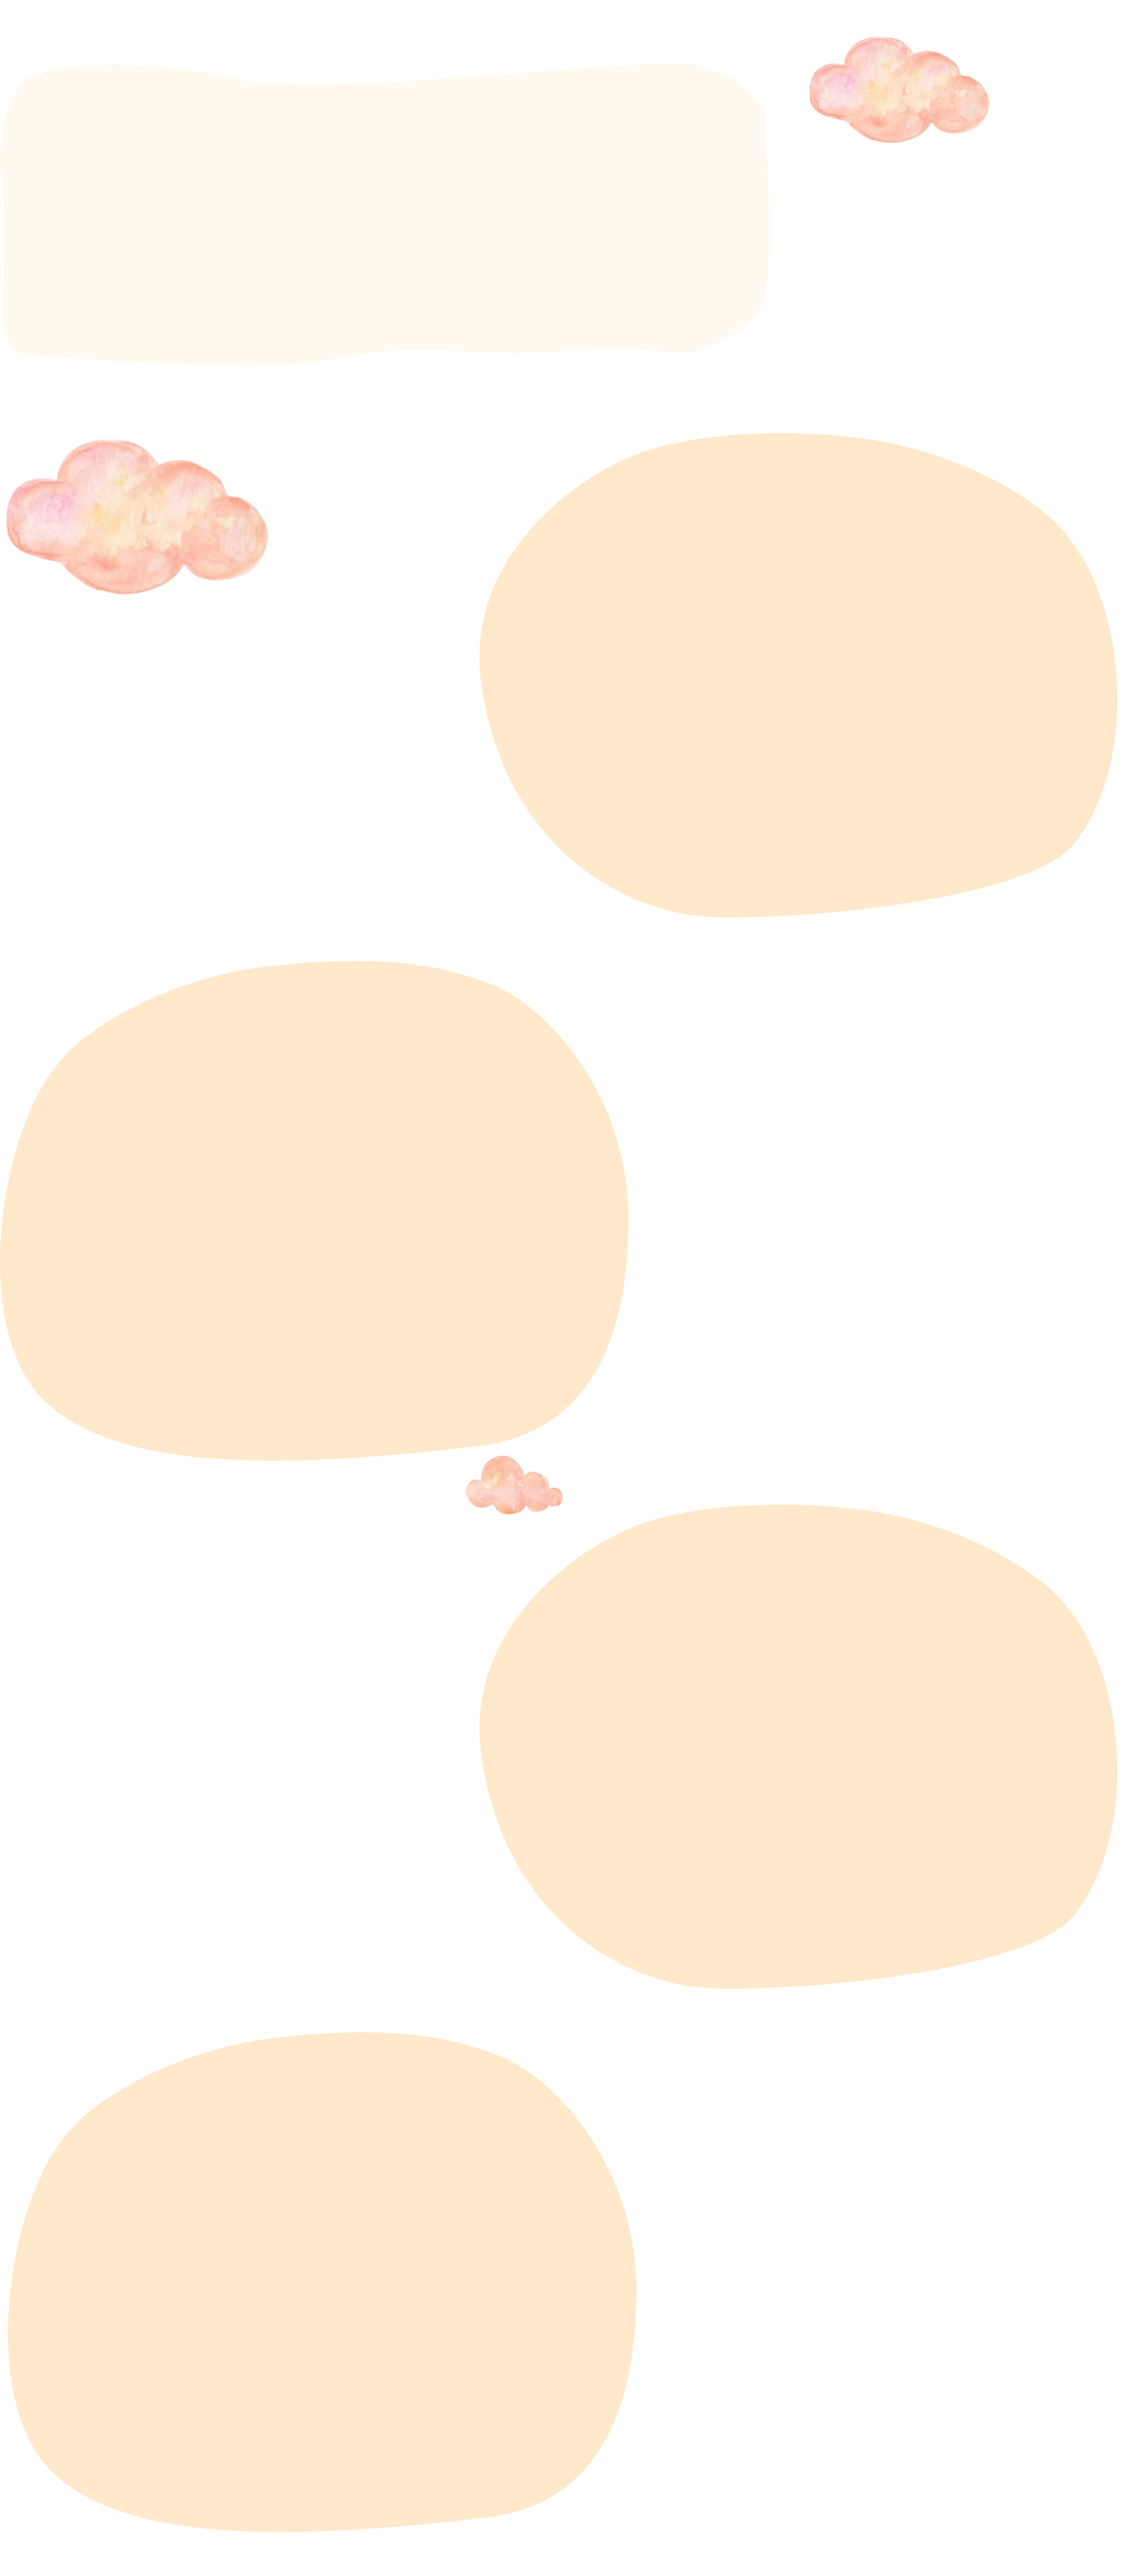
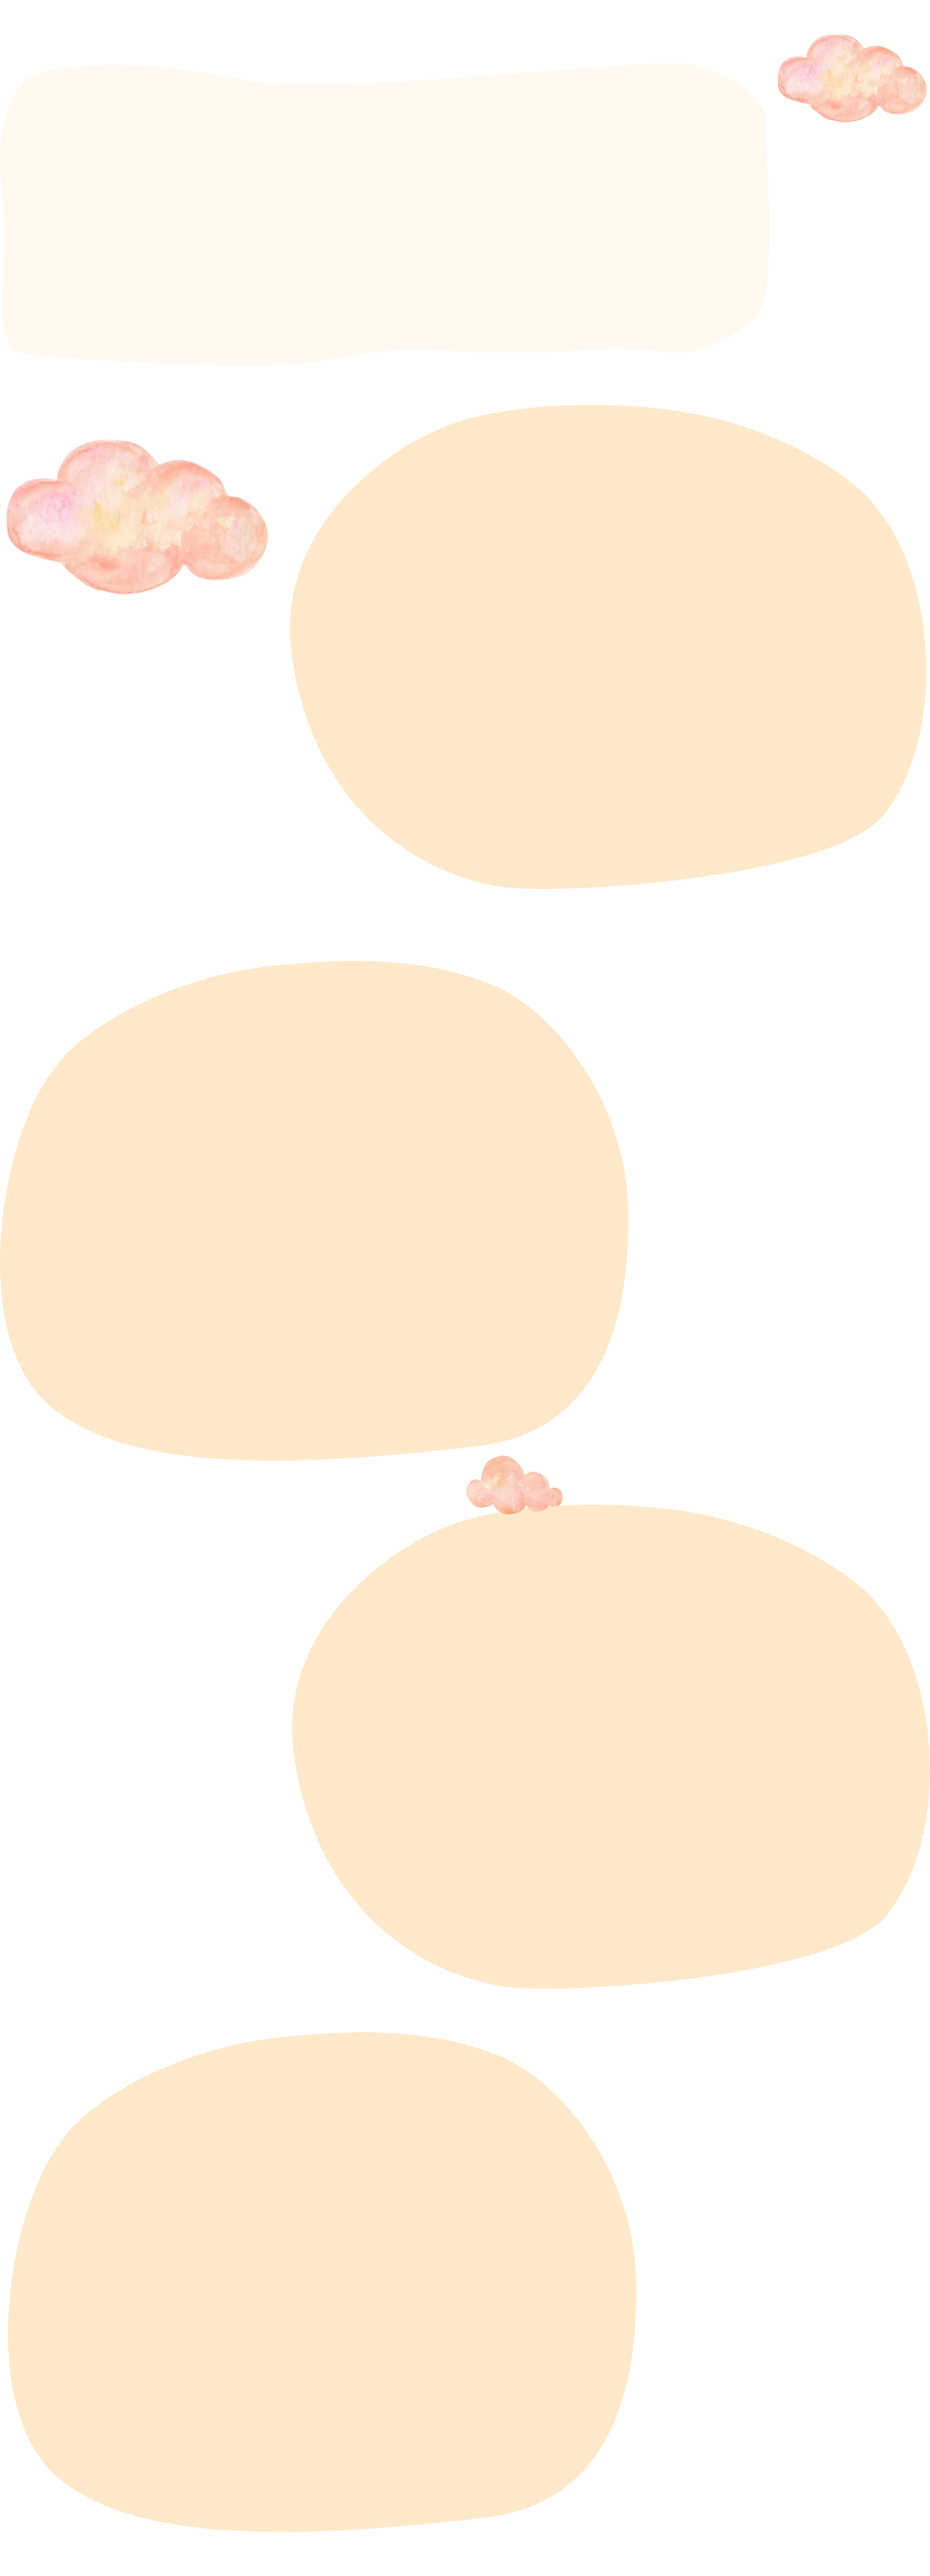
about爆版修正

diff --git a/css/about.css b/css/about.css
@@ -13,25 +13,33 @@ main{
     background-image: url(../img/home/background_about.png);
     /* background-position:center; */
     background-repeat: no-repeat;
-    /* min-height: 100vh; */
+
     height: auto;
-    width: 1550px;
+    width: 100%;
+    max-width: 1280px;
     margin: 0 auto;
 
+}
+
+body{
+    overflow-x: hidden;
 }
 
 
  
 section{
-    margin:0 175px;
+    max-width: 1200px;
+    
 }
 
 /*-------品牌寓意--------*/
 section:nth-child(2){
     /* outline: 2px solid red; */
-    width: 760px;
-    padding: 100px 0;
-    
+    padding: 100px 5px;
+
+    width: 100%;
+    max-width: 1200px;
+    margin: 0 auto;
 }
 
 section  h1{
@@ -47,7 +55,7 @@ section  h1{
     display: flex;
     gap:64px;
     align-items: center;
-    justify-content: center;
+    /* justify-content: center; */
     margin-top: 68px;
 }
 
@@ -57,6 +65,8 @@ section  h1{
 
 .storyLogo img{
     display: block;
+    width: auto;
+    max-width: 250px;
 }
 
 
@@ -67,7 +77,8 @@ section  h1{
     font-size: 16px;
     line-height: 24px;
     letter-spacing: 2px;
-    width: 522px;
+    width: 100%;
+    max-width: 550px;
     height: 200px;
     /* outline: 2px solid rgb(0, 17, 255); */
 
@@ -81,20 +92,29 @@ section:nth-child(3){
     /* outline: 2px solid rgb(55, 0, 255); */
     padding: 100px 0;
     height: 2740px;
+    width: 100%;
+    max-width: 1200px;
+    margin: 0 auto;
     display: flex;
     flex-direction: column;
-    gap:240px;/*區塊上下中間間距*/
-    justify-content: space-between;
-    position: relative;   
+    gap:240px; 區塊上下中間間距
+    
+    justify-content:space-between;
+    position:relative;   
+    
 }
+
+
 
 
 .tourContent h1{
     /* outline: yellow 5px solid; */
     text-align: center;
-    position: absolute;
-    right: 155px;
-    top:50px;
+    /* position: absolute;
+    right: 2em;
+    top:50px; */
+
+    margin-bottom: 2em;
    
 
 
@@ -105,32 +125,42 @@ section:nth-child(3){
 .tour{/*環境照片+文字介紹區塊div*/
     /* outline: 4px solid black; */
     display: flex;
-    gap:80px; /*文字跟照片中間間距*/
+    gap:1em; /*文字跟照片中間間距*/
 
     position: relative;/*彩霞img相對定位*/
-}
+    flex-grow: 1;
+    flex-basis: 100px;
 
+    display: flex;
+    align-items: center;
 
-.tourPic{/*環境照片div*/
-    /* outline: 4px solid rgb(166, 24, 24); */
-
-    background-color: white;
-    border-radius: 40px;
-
-    padding: 30px;
-
-
+    
 
 }
 
 
-.tourPic img{
-    display: block;
-    width: auto;
-    height:100% ;
 
-    border-radius: 40px;
+.tourPic {/*環境照片div*/
+  /* outline: 4px solid rgb(166, 24, 24); */
+  flex: 1;
+  max-width: 600px;
+  height: 80%;
+  max-height: 468px; 
+  background-color: white;
+  border-radius: 40px;
+  overflow: hidden;
+  flex-shrink: 0; 
+  
+  padding: 1.5em;
+}
 
+.tourPic img {
+  width: 100%;
+  height: 100%;
+  object-fit: cover; 
+  display: block;
+  border-radius: 1.5em;
+  
 }
 
 
@@ -139,6 +169,9 @@ section:nth-child(3){
     display: flex;
     flex-direction: column;
     justify-content: center;
+    flex: 1;
+    padding:2em;
+    box-sizing: border-box;
 
 }
 
@@ -176,51 +209,54 @@ section:nth-child(3){
 
 .cloudTop{/*雲朵img*/
     position: absolute;
-    right: -380px;
+    right: -180px;
     top:520px;
 
     z-index: 1;
 
-    opacity: 0;
-    animation: cloudTop 2s linear 0s 1 forwards;
+    
+    animation: cloud 6s ease-in-out infinite;
 }
 
-@keyframes cloudTop{
-    0%{
-        opacity: 0;
-        transform: translate(0px, 0px) scale(0.8);
-    }
+@keyframes cloud{
+      0%{
+        transform: translateY(0); 
+        }
 
-    100%{
-        opacity: 1;
-        transform: translate(-300px, 0px) scale(1.2);
-    }
+      50%{ 
+        transform: translateY(-30px) scale(0.98); 
+        }
+
+      100% {
+        transform: translateY(0); 
+        }
 }
 
 
 .cloudBottom{
     position: absolute;
-    left: -385px;
+    left: -80px;
     bottom: 540px;
 
     z-index: 1;
 
-    opacity: 0;
-    animation: cloudBottom 2s linear 2s 1 forwards;
+    animation: cloudBottom 6s ease-in-out infinite;
 }
-
 
 @keyframes cloudBottom{
-    0%{
-        opacity: 0;
-        transform: translate(0px, 0px) scale(0.8);
-    }
+      0%{
+        transform: translateY(0) scale(1.5); 
+        }
 
-    100%{
-        opacity: 1;
-        transform: translate(300px, 0px) scale(1.5);
-    }
+      50%{ 
+        transform: translateY(-30px) scale(1.48); 
+        }
+
+      100% {
+        transform: translateY(0) scale(1.5); 
+        }
 }
+
 
 
 
@@ -243,8 +279,13 @@ section:nth-child(4){
     display: flex;
     flex-direction: column;
     justify-content: center;
-    gap: 36px;
-    height: 440px;
+    gap: 3em;
+    height: 30em;
+
+    width: 25%;
+
+    
+
 
 
 }
@@ -257,8 +298,10 @@ section:nth-child(4){
 }
 
 
-.trafficLeft img{
+.trafficLeft>img{
     /* outline: rgb(119, 0, 255) 2px solid; */
+    
+   
 
 
 
@@ -269,7 +312,8 @@ section:nth-child(4){
     /* outline: rgb(13, 13, 7) 2px solid; */
     display: flex;
     align-items: center;
-    gap:8px
+    gap:0.5em;
+    justify-content: center;
 
 
 
@@ -278,6 +322,8 @@ section:nth-child(4){
 
 .trafficAdress img{
     display: block;
+
+    
 
 
 
@@ -288,6 +334,7 @@ section:nth-child(4){
     font-size: 16px;
     line-height: 30px;
     letter-spacing: 2px;
+    
 
 }
 
@@ -302,7 +349,7 @@ section:nth-child(4){
 .trafficRight{
     display: flex;
     flex-direction: column;
-    gap: 28px;
+    gap: 2em;
 
 
 }
@@ -313,18 +360,22 @@ section:nth-child(4){
     background-color: #FFF9F0;
     border-radius: 40px;
     padding: 30px;
-    width: 540px;
+    
+    width: 100%;
+    max-width: 540px;
 
     display: flex;
     align-items: center;
-    gap: 28px;
+    gap: 2em;
 
 }
 
 
 .waysIcon{
-    height: 60px;
-    width: auto;
+    width: 100%;
+    max-width: 60px;
+
+    height: auto;
     display: block;
 
 }
